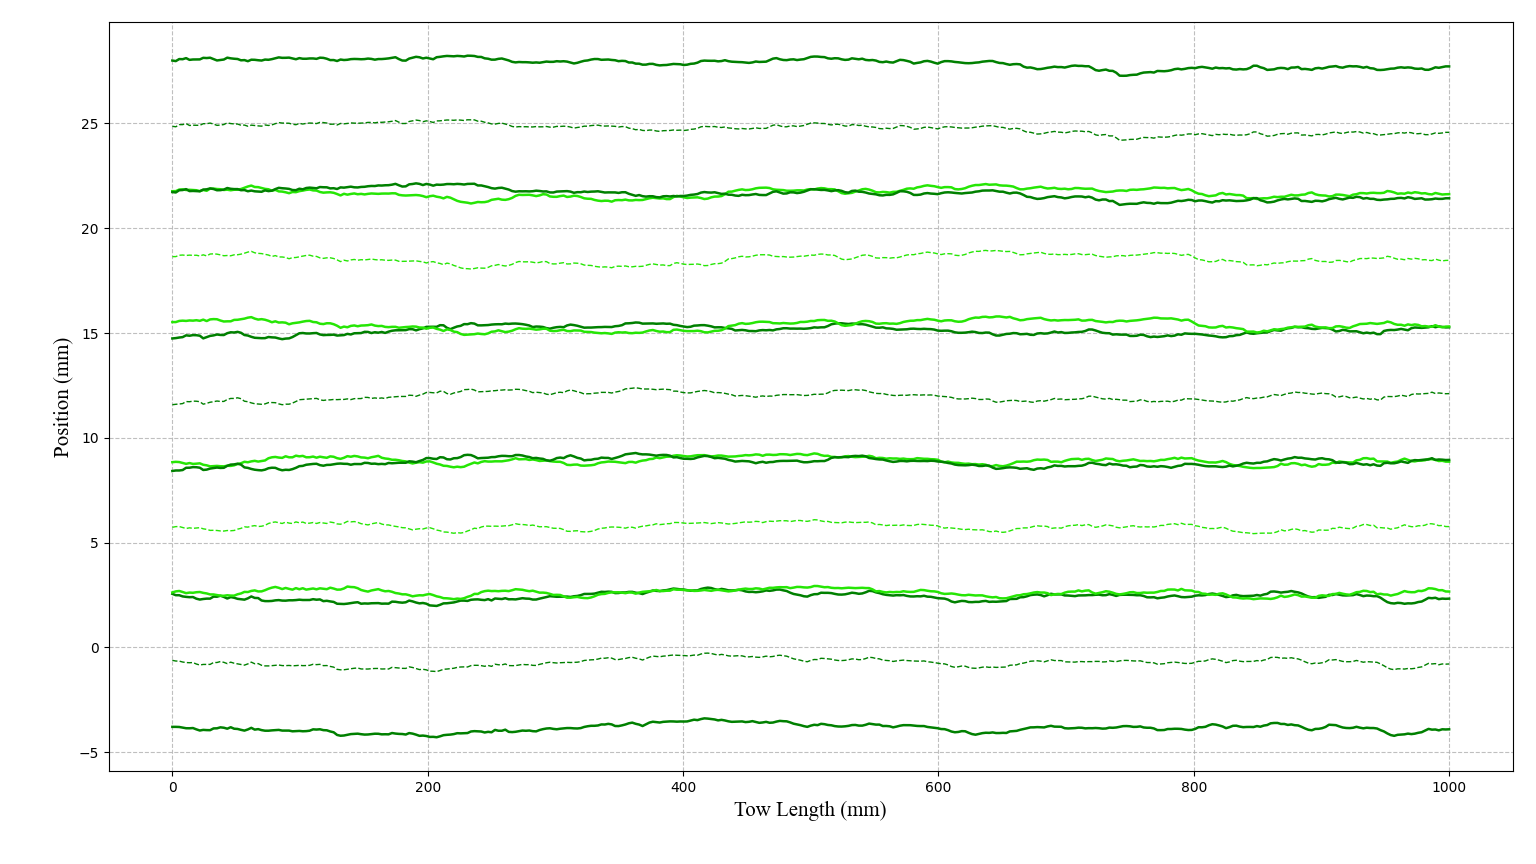
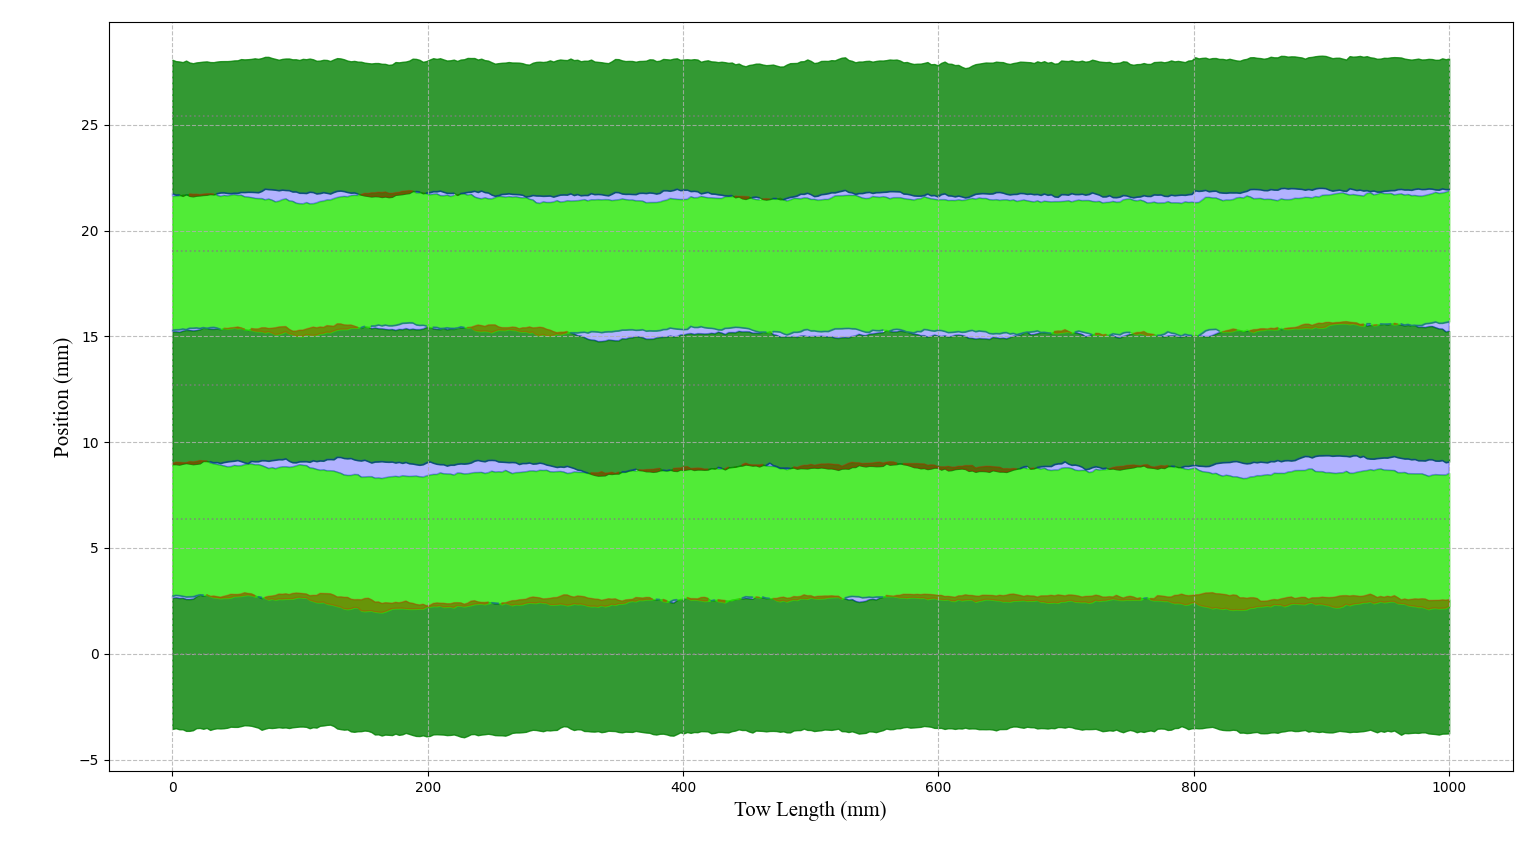
UI tweak

diff --git a/Scripts/User_Interface.py b/Scripts/User_Interface.py
@@ -103,18 +103,19 @@ def draw_button(text, rect, active=True, green=False):
     label = font.render(text, True, (255, 255, 255))
     screen.blit(label, label.get_rect(center=rect.center))
 
-def run_simulation():
+def run_simulation(GO=False, fill=False):
     global simulation_result
     plt.clf()
 
     # --- Generate RW multitow data ---
-    gap_df, gap_only, overlap_only, gap_percent, overlap_percent, RW_all_tows_data = generate_RW_multitow(
+    gap_overlap_df, gap_df, overlap_df, gap_percent, overlap_percent, RW_all_tows_data = generate_RW_multitow(
         num_tows=num_tows,
         tow_spacing_mm=tow_spacing_mm,
         tow_width_mm=tow_width_mm,
         tow_length_mm=tow_length_mm,
         proposal_type="RWM",
-        print_statement=False)
+        print_statement=False
+    )
 
     # --- Create the figure ---
     fig, ax = plt.subplots(figsize=(10, 6))
@@ -122,19 +123,81 @@ def run_simulation():
     # Define alternating colors
     colors = [(0.0, 0.5, 0.0), (0.15, 0.9, 0.02)]  # dark green, light green
 
-    # Plot each tow with alternating colors
-    for i, tow_df in enumerate(RW_all_tows_data):
-        color = colors[i % 2]  # alternate between the two
+    # --- Plot each tow ---
+    x_vals = RW_all_tows_data[0]["x_mm"]
+
+    # When fill=True, draw lower tows first so higher ones appear on top
+    tow_indices = range(num_tows) if not fill else range(num_tows)
+
+    for i in tow_indices:
+        tow_df = RW_all_tows_data[i]
+        color = colors[i % 2]
         x = tow_df["x_mm"]
-        ax.plot(x, tow_df["top_edge"], color=color, lw=1.8, label=f"Tow {i+1}")
-        ax.plot(x, tow_df["bottom_edge"], color=color, lw=1.8)
-        ax.plot(x, tow_df["centerline"], color=color, lw=1.0, linestyle="--")
+        top_edge = tow_df["top_edge"]
+        bottom_edge = tow_df["bottom_edge"]
+
+        if fill:
+            # Filled tow band
+            ax.fill_between(
+                x,
+                bottom_edge,
+                top_edge,
+                color=color,
+                alpha=0.8,
+                label=f"Tow {i+1}" if i == 0 else ""
+            )
+        else:
+            # Edge and centerline plotting
+            ax.plot(x, top_edge, color=color, lw=1.8, label=f"Tow {i+1}")
+            ax.plot(x, bottom_edge, color=color, lw=1.8)
+            ax.plot(x, tow_df["centerline"], color=color, lw=1.0, linestyle="--")
+
+    # --- Shade gap and overlap regions between tows ---
+    if GO:
+        for i in range(num_tows - 1):
+            top_edge_prev = RW_all_tows_data[i]["top_edge"]
+            bottom_edge_next = RW_all_tows_data[i + 1]["bottom_edge"]
+
+            diff = bottom_edge_next - top_edge_prev  # +gap, -overlap
+
+            # Gaps (blue)
+            ax.fill_between(
+                x_vals,
+                top_edge_prev,
+                bottom_edge_next,
+                where=(diff > 0),
+                color="blue",
+                alpha=0.3,
+                label="Gap" if i == 0 else ""
+            )
+
+            # Overlaps (red)
+            ax.fill_between(
+                x_vals,
+                top_edge_prev,
+                bottom_edge_next,
+                where=(diff < 0),
+                color="red",
+                alpha=0.3,
+                label="Overlap" if i == 0 else ""
+            )
+
+    # --- Plot ideal (straight) centerlines ---
+    x_min = min(df["x_mm"].min() for df in RW_all_tows_data)
+    x_max = max(df["x_mm"].max() for df in RW_all_tows_data)
+    for i in range(num_tows):
+        ideal_y = i * tow_width_mm
+        ax.plot([x_min, x_max], [ideal_y, ideal_y],
+                color="gray", linestyle=":", lw=1.2, alpha=0.8)
 
     # --- Labels, title, legend ---
-    ax.set_title("")  # removes the title
+    ax.set_title("")
     ax.set_xlabel("Tow Length (mm)", fontname="Times New Roman", fontsize=15)
     ax.set_ylabel("Position (mm)", fontname="Times New Roman", fontsize=15)
     ax.grid(True, linestyle="--", alpha=0.8)
+
+    # ax.legend(loc="upper right", fontsize=9)
+
     plt.tight_layout()
 
     # --- Store the figure and metrics for display ---
